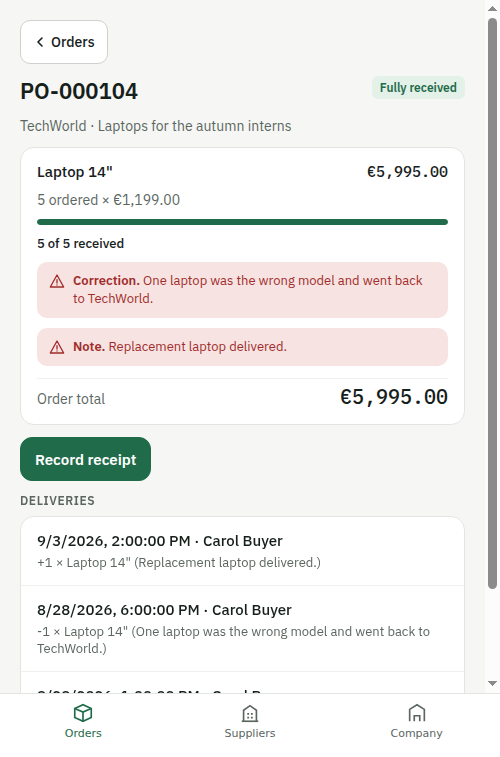
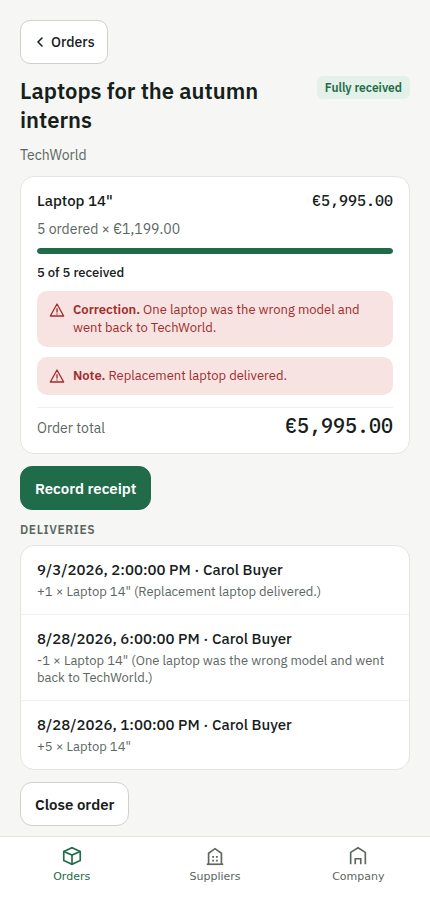
Retake order screenshots without a derived PO number

diff --git a/pr-59/PROOF.md b/pr-59/PROOF.md
@@ -3,3 +3,5 @@
 Web app at the checkout's Metro (`make e2e` stack), seeded dataset, signed in as Carol (Acme Trading, buyer), 430px wide headless Chrome.
 
 01 Orders list. 02 Partially received order with its receipt note. 03 Fully received order. 04 Receipt entry. 05 Raising a PO. 06 Suppliers segment. 07 Catalog segment. 08 Empty deliveries list ("Nothing received yet.") on an Issued order.
+
+Fix round: 01 to 04 retaken after removing the derived PO reference. Rows and headers show the requisition title with the supplier. 04's back pill now reads "Order". 05 to 08 are unchanged by that fix.
